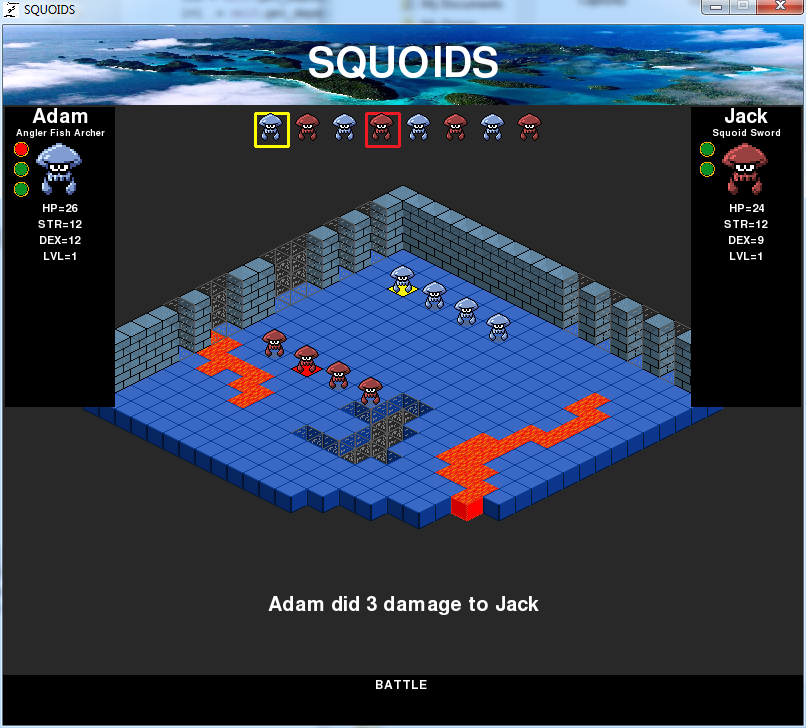
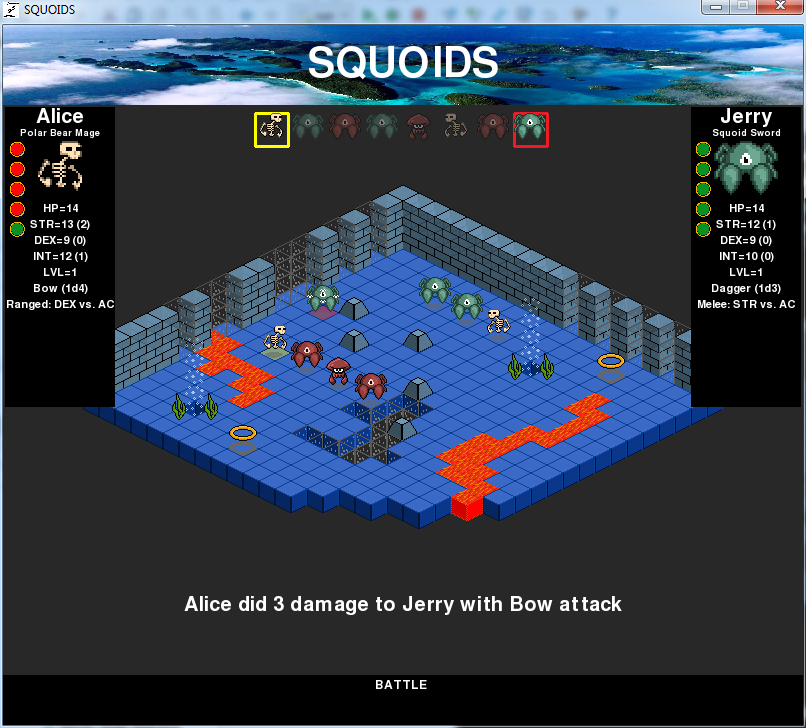
adding more animated status effects

diff --git a/README.md b/README.md
@@ -19,4 +19,12 @@ Nimrod
 <img height=300 width=300 src="https://github.com/kwoolter/Nimrod/blob/master/screenshots/Capture4.PNG" alt="game2">
 </td>
 </tr>
+<tr>
+<td>
+<img height=300 width=300 src="https://github.com/kwoolter/Nimrod/blob/master/screenshots/Capture3.PNG" alt="game1">
+</td>
+<td>
+<img height=300 width=300 src="https://github.com/kwoolter/Nimrod/blob/master/screenshots/Capture5.PNG" alt="game2">
+</td>
+</tr>
 </table>
